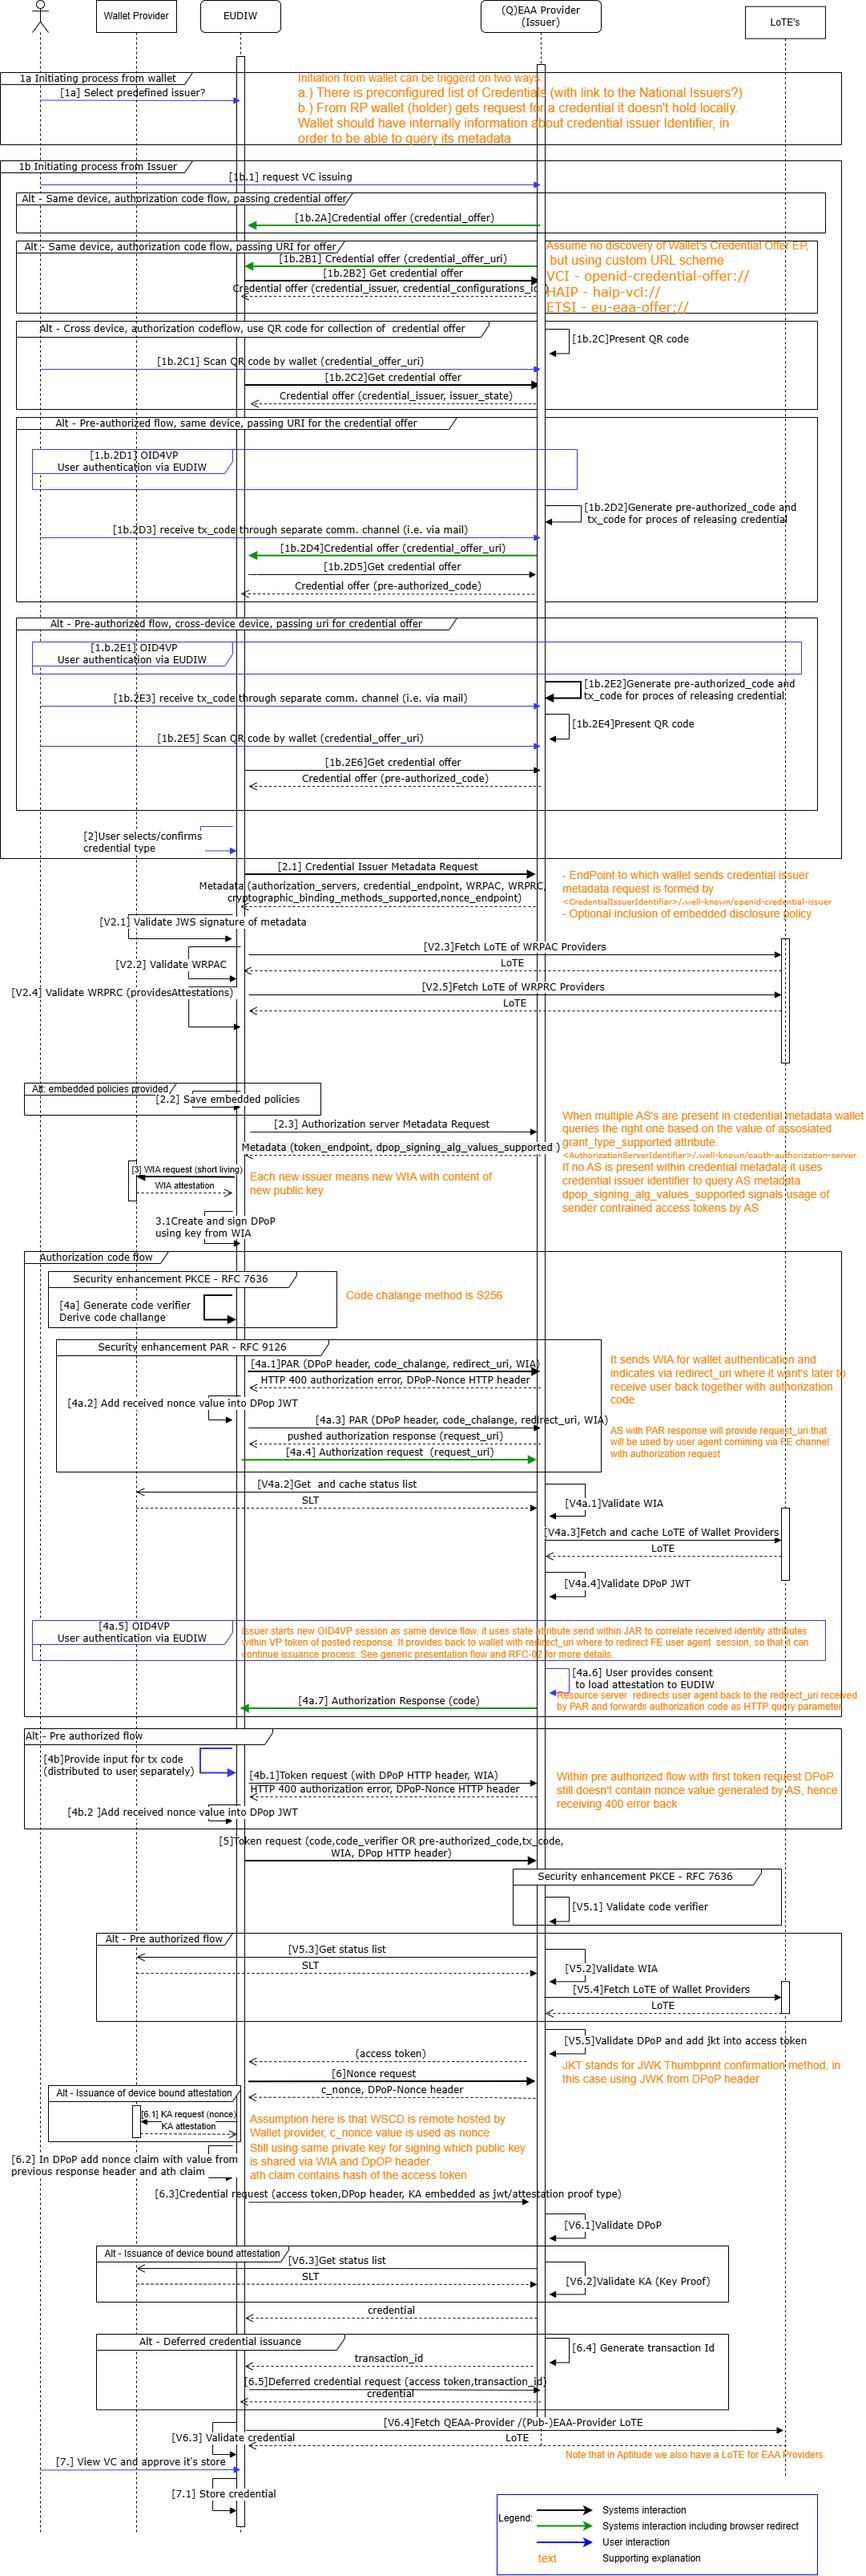
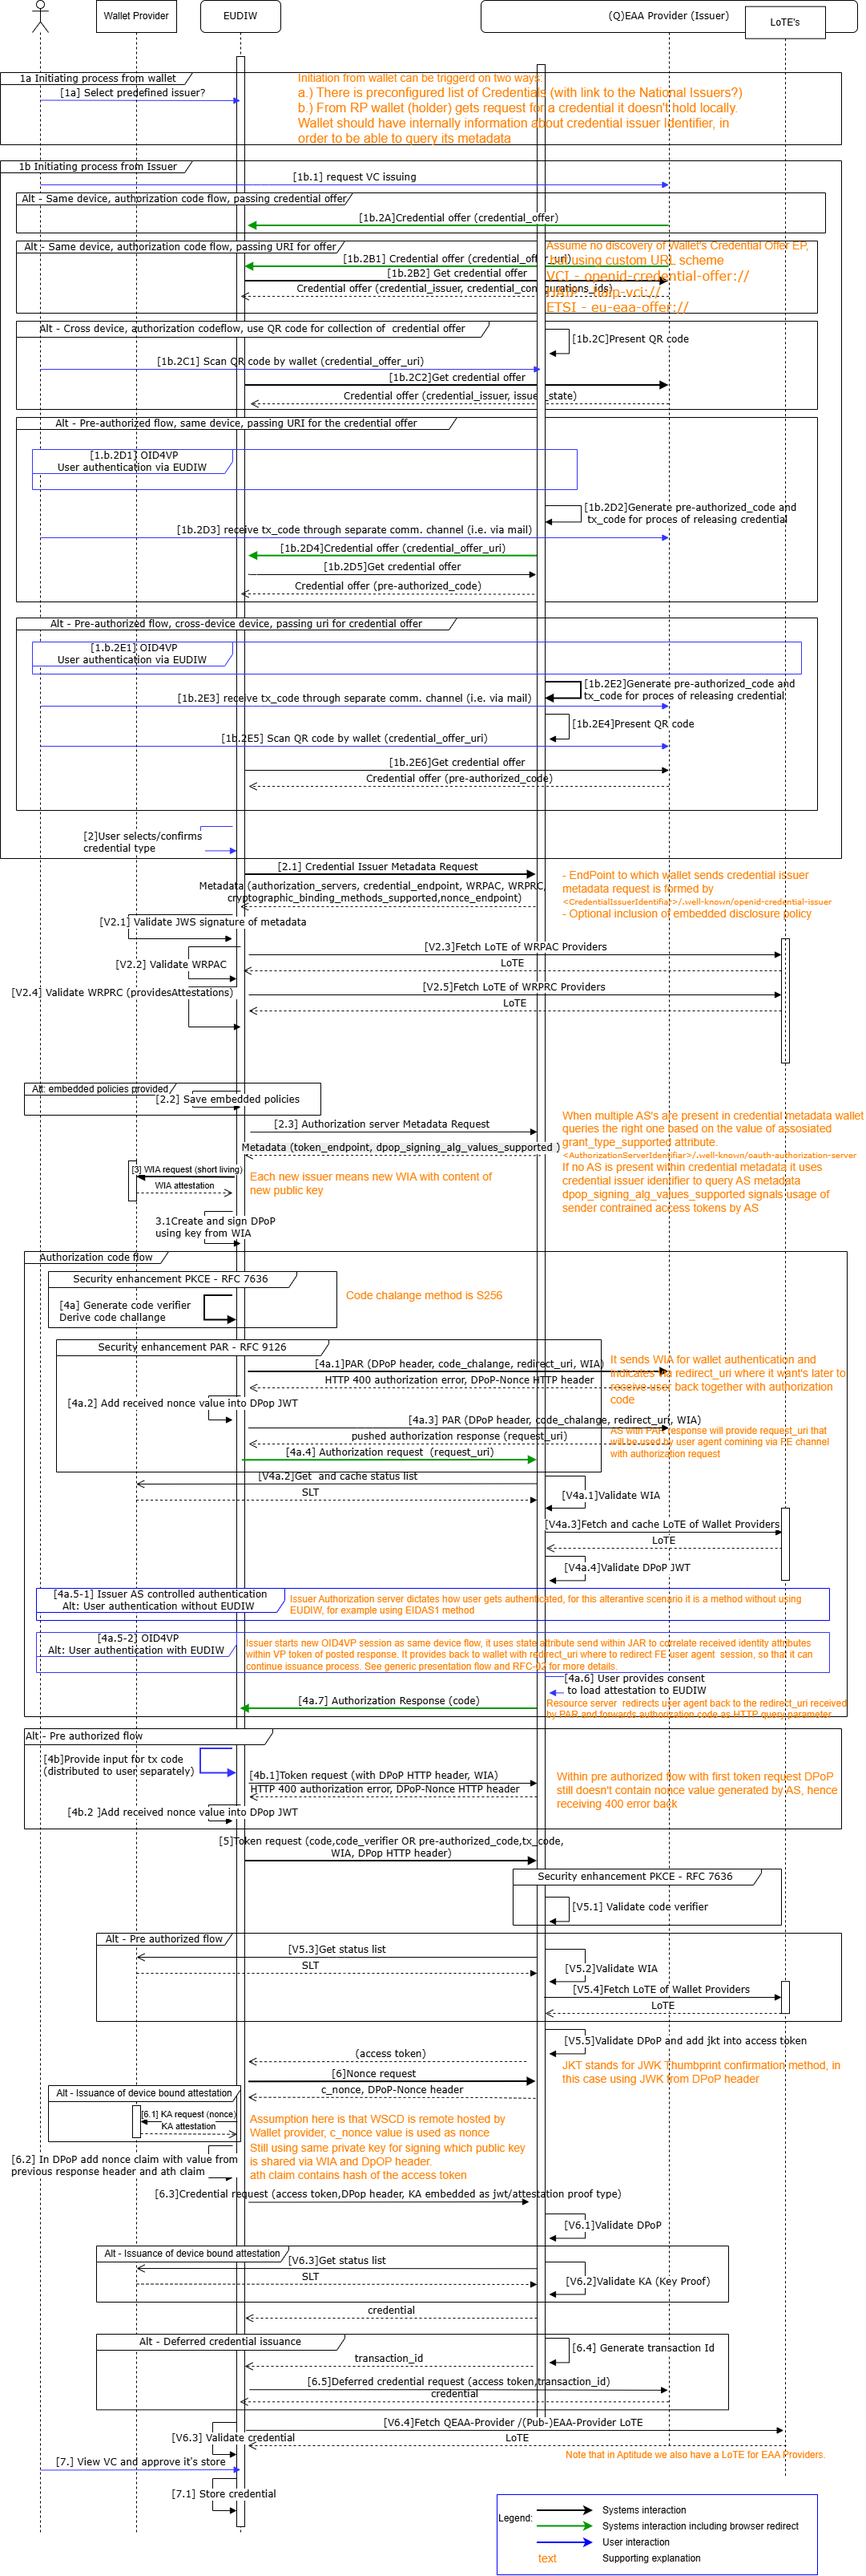
Changes to release ver 1.0 of generic issuance flow (#324)
* Changes to release ver 1.0

Supporting issue #322
https://github.com/APTITUDE-Consortium/aptitude-eudi-wallet-specs/issues/322

* Update generic-issuance-flow-specification.md

forgot to fix IETF OAuth 2.0 Attestation-Based Client Authentication version to Draft 11

* Processed AI review comments

doing some changes based on the AI review comments

* Update generic-issuance-flow-specification.md

fixing lint markdown errors

* Update generic-issuance-flow-specification.md

try#2 fixing lint md errors

---------

diff --git a/docs/wp2/generic-issuance-flow-specification.md b/docs/wp2/generic-issuance-flow-specification.md
@@ -1,7 +1,7 @@
 # Generic issuance flow specification
 
-Version 0.91 (draft)
-Date 20-08-2026
+Version 1.0
+Date 14-09-2026
 
 ## Authors
 
@@ -122,7 +122,14 @@ href="https://github.com/eu-digital-identity-wallet/eudi-doc-standards-and-techn
 href="https://aptitude-consortium.github.io/wp2-trust-specifications/latest/sections/trust-management-lifecycle/#token-status-list-wallet-unit-attestation-profile">APTITUDE Trust management and lifecycle</a>, <a
 href="https://datatracker.ietf.org/doc/draft-ietf-oauth-status-list/21/">IETF Token Status List Draft 21</a></td>
 <td>Optional scheduled revocation checks by the Issuer against the Wallet Provider's status lists for WIA and KA, as per <a
-href="https://eudi.dev/3.0.0/annexes/annex-2/annex-2.02-high-level-requirements-by-topic/#a2322-topic-38-wallet-unit-revocation">ARF Topic 38</a> and requirement WURevocation_19.<br><br><em>Note: As specified in <a href="https://aptitude-consortium.github.io/wp2-trust-specifications/latest/sections/trust-management-lifecycle/#token-status-list-wallet-unit-attestation-profile">the APTITUDE Trust Management and Lifecycle profile</a>, for other attestation types within the APTITUDE profiles:</em><ul><li>Both WIA and KA operational checks SHALL be performed for device-bound credentials when operational monitoring is enabled.</li><li>Only the WIA operational check SHALL be performed for non-device-bound attestations when operational monitoring is enabled.</li></ul></td>
+href="https://eudi.dev/3.0.0/annexes/annex-2/annex-2.02-high-level-requirements-by-topic/#a2322-topic-38-wallet-unit-revocation">ARF Topic 38</a> and requirement WURevocation_19.<br><br><em>Note: As specified in <a href="https://aptitude-consortium.github.io/wp2-trust-specifications/latest/sections/trust-management-lifecycle/#token-status-list-wallet-unit-attestation-profile">the APTITUDE Trust Management and Lifecycle profile</a>, for other attestation types within the APTITUDE profiles:</em><ul><li>Both WIA and KA operational checks SHALL be performed for device-bound credentials when operational monitoring is enabled.</li><li>Only the WIA operational check SHALL be performed for non-device-bound attestations when operational monitoring is enabled.\[^1]</li></ul></td>
+</tr>
+<tr>
+<td>O6</td>
+<td><a
+href="https://openid.net/specs/openid-4-verifiable-credential-issuance-1_0.html#name-notification-endpoint">OID4VCI ver1.0 notification endpoint</a>, <a
+href="../RFCs/RFC001.md#87-notification-interface">RFC001 notification interface</a></td>
+<td>Notification channel allowing issuer to get updates related to the previosly issued credential\[^1]</td>
 </tr>
 <tr>
 <td>R1</td>
@@ -136,7 +143,7 @@ TS 119 472-3 ver1.1.1</a>,
 <a
 href="https://www.rfc-editor.org/rfc/rfc9449.html">RFC9449</a>,
 <a
-href="https://datatracker.ietf.org/doc/html/draft-ietf-oauth-attestation-based-client-auth-10">IETF OAuth 2.0 Attestation-Based Client Authentication Draft 10</a></p>
+href="https://datatracker.ietf.org/doc/html/draft-ietf-oauth-attestation-based-client-auth-11">IETF OAuth 2.0 Attestation-Based Client Authentication Draft 11</a></p>
 <p>ISO18013-5, <a
 href="https://datatracker.ietf.org/doc/draft-ietf-oauth-sd-jwt-vc/17/">SD-JWT
 VC Draft 17</a>, <a
@@ -181,8 +188,12 @@ href="https://datatracker.ietf.org/doc/draft-ietf-oauth-status-list/21/">IETF To
 </tbody>
 </table>
 
-The process behind O1, O2 and O3 is further explained in Apptitude on-boarding document, please look here <span class="mark"><</span>
+O1-6 interfaces are operational interface where some of them can also be used runtime.
+The process behind O1, O2 and O3 is explained in Apptitude on-boarding document, please look here <span class="mark"><</span>
 <span class="mark">[wp2-trust-specifications/docs/topics/onboarding-process.md at main · APTITUDE-Consortium/wp2-trust-specifications](https://github.com/APTITUDE-Consortium/wp2-trust-specifications/blob/main/docs/topics/onboarding-process.md)></span> for more details.
+Interfaces O4 and O5 are used runtime and are shown within the sequence diagram.
+
+Usage of the interface O6 is further explained within the RFC001.
 
 ## 3\. Interaction details
 
@@ -199,14 +210,14 @@ In follow up table the requirements are listed with decision if it is in the sco
 
 |**Requirement**|**Scope decision**|
 |-|-|
-|Authorization and pre-authorized code flows|In scope\[^1]\[^2]|
+|Authorization and pre-authorized code flows|In scope\[^2]\[^3]|
 |Wallet initiated and issuer initiated flow|In scope|
 |Same device and cross-device flow|In scope|
 |Immediate and deferred issuance|In scope|
 |Nonce Endpoint offered by the issuer|In scope|
 |Metadata Endpoint offered by the issuer|In scope|
 |Sending credential offer by value and by reference|In scope|
-|Notification Endpoint for credential lifecycle mngmt|Not in the scope|
+|Notification Endpoint for credential lifecycle mngmt|In scope|
 
 #### 3.1.2 HAIP requirements
 
@@ -259,7 +270,7 @@ In some cases to simplify implementation for the partners there are number of ad
 
 |**Requirement**|**Scope decision**|
 |-|-|
-|Issuer and wallet unit shall use so called "combined mode" using only DPoP proof, as per [IETF oAuth attestation based client authentication DPoP Combined Mode](https://datatracker.ietf.org/doc/html/draft-ietf-oauth-attestation-based-client-auth-10#name-dpop-combined-mode) |In scope|
+|Issuer and wallet unit shall use so called "combined mode" using only DPoP proof, as per [IETF oAuth attestation based client authentication DPoP Combined Mode](https://datatracker.ietf.org/doc/html/draft-ietf-oauth-attestation-based-client-auth-11#name-dpop-combined-mode) |In scope|
 |Issuer authorization and resource servers shall mandate using of fresh nonce value within the DPoP |In scope|
 |Issuer shall offer Nonce Endpoint  |In scope|
 |Issuer shall require a presence of WIA and DPoP header on token endpoint for pre-authorized code flow  |In scope|
@@ -528,6 +539,8 @@ href="../RFCs/RFC001.md#88-deferred-credential-endpoint">RFC-01
 </tbody>
 </table>
 
-\[^1]: Note that wallet must implement both code flows, the issuer may choose to implement only one
+\[^1]: Scheduled statuslist checks on WIAs/KAs and attestation life cycle event notifications from wallet instance towards Issuer are not showned within the sequence diagram, as they do not occur during the actual credential issuance process.
 
-\[^2]: Note that pre-authorized code flow doesn’t meet requirements for issuing the attestation with Level of Assurance HIGH
+\[^2]: Note that wallet must implement both code flows, the issuer may choose to implement only one.
+
+\[^3]: Note that pre-authorized code flow doesn’t meet requirements for issuing the attestation with Level of Assurance HIGH.
